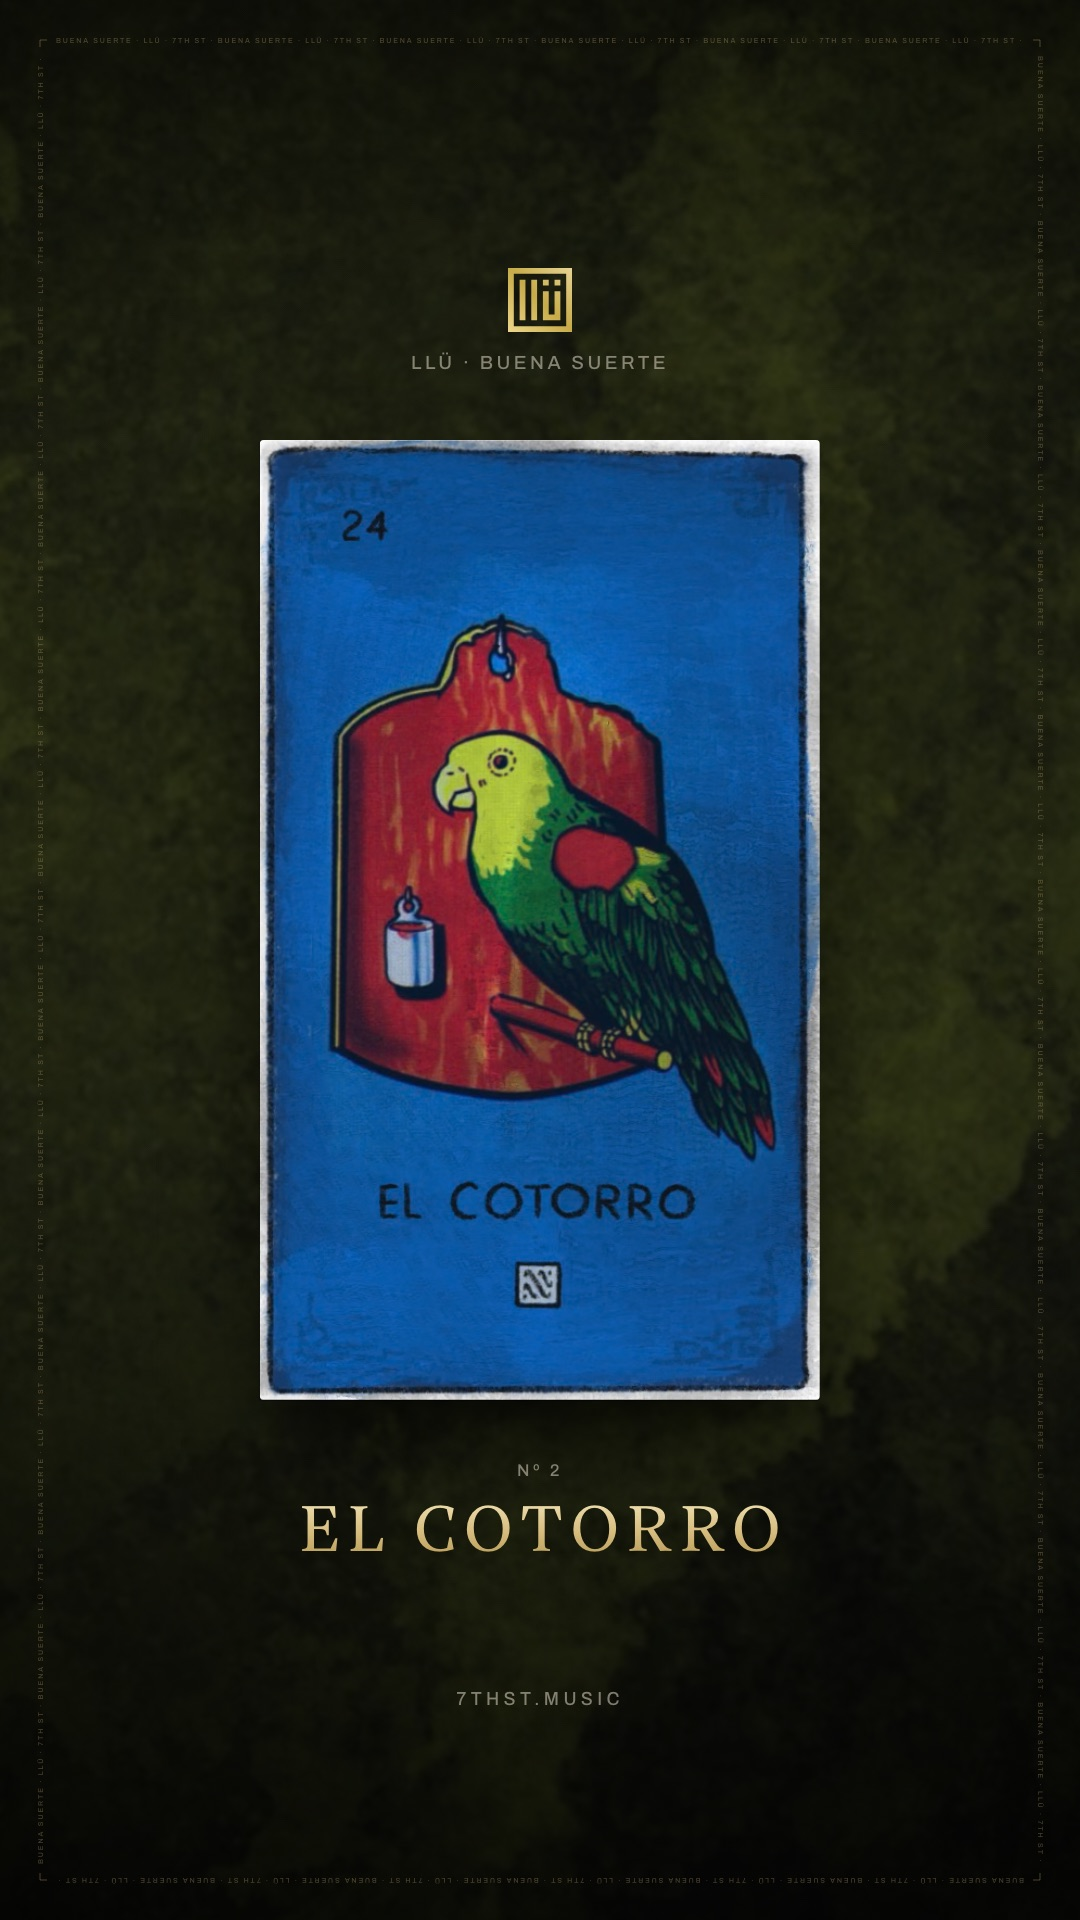
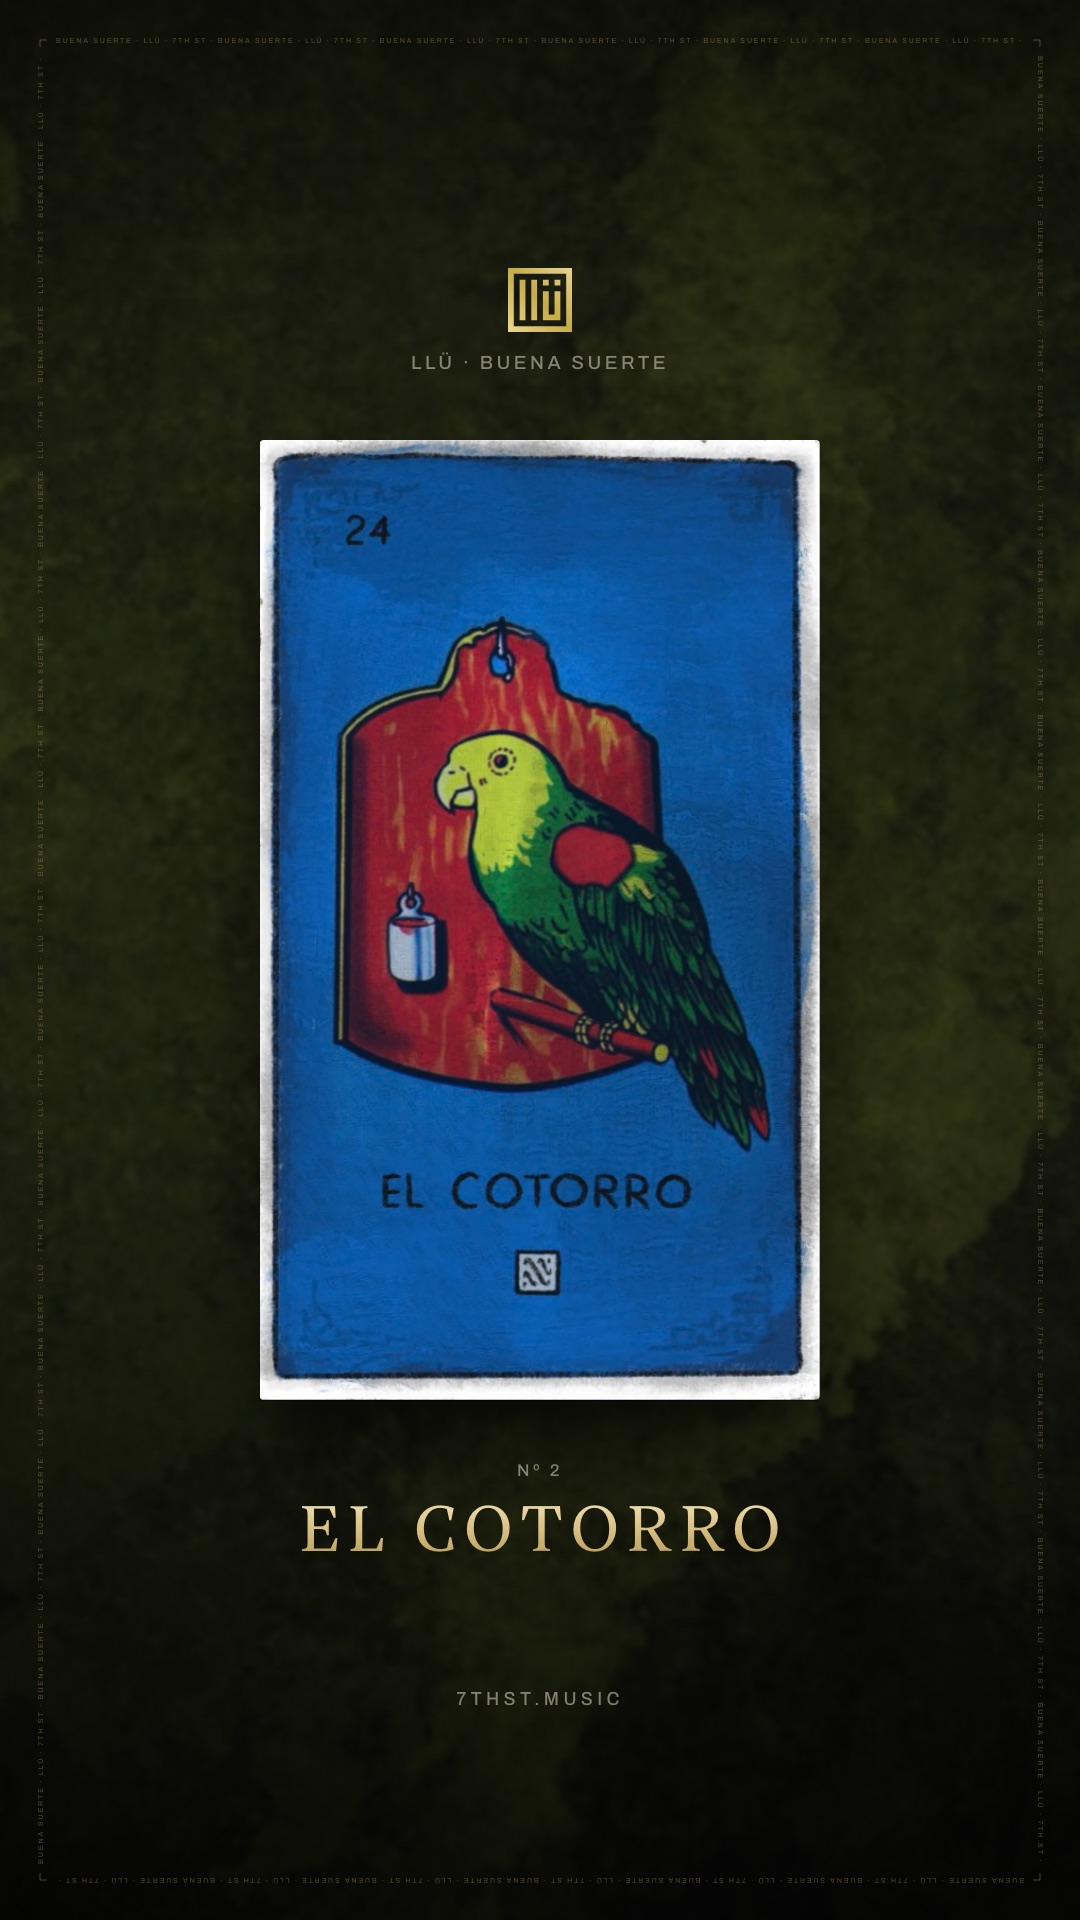
Crop the released cards out to their paper edge, so the top and bottom aren't cut
The old crop sat 13 to 18 pixels inside the card's torn paper edge at the top and
bottom. The new one runs out to where that edge is still solid all the way along,
in the same 516 by 884 shape.

diff --git a/index.html b/index.html
@@ -323,7 +323,7 @@
           <span class="label">la baraja · <span data-b="total">9</span></span>
           <span class="tracks__legend"><span><i class="glyph"></i><span data-t="fullSong">completa</span></span><span><i class="glyph glyph--preview"></i><span data-t="previewLong">probadita de 30 segundos</span></span></span>
         </div>
-        <nav class="tracks__list" id="tracks" aria-label="Cards in the deck" style="--n:9"><button class="tk" type="button" data-track="0" style="" aria-label="1, La Luna, completa, 4:04"><span class="mini-card"><img src="https://res.cloudinary.com/dhjy8pfsa/image/upload/c_crop,x_619,y_365,w_516,h_884/f_auto,q_88/La_Luna_zpuyld" alt="" width="20" height="34" decoding="async"></span><span class="tk__txt"><span class="tk__name"><b>1</b>La Luna</span><span class="tk__meta"><span class="tk__dur tnum">4:04</span><span class="eq" aria-hidden="true"><i></i><i></i><i></i></span></span></span></button><button class="tk" type="button" data-track="1" style="" aria-label="2, El Cotorro, completa, 3:09"><span class="mini-card"><img src="https://res.cloudinary.com/dhjy8pfsa/image/upload/c_crop,x_619,y_365,w_516,h_884/f_auto,q_88/El_Cotorro_az7mbb" alt="" width="20" height="34" decoding="async"></span><span class="tk__txt"><span class="tk__name"><b>2</b>El Cotorro</span><span class="tk__meta"><span class="tk__dur tnum">3:09</span><span class="eq" aria-hidden="true"><i></i><i></i><i></i></span></span></span></button><button class="tk" type="button" data-track="2" style="" aria-label="3, El Diablito, completa, 4:19"><span class="mini-card"><img src="https://res.cloudinary.com/dhjy8pfsa/image/upload/c_crop,x_619,y_365,w_516,h_884/f_auto,q_88/El_Diablito_poz9xb" alt="" width="20" height="34" decoding="async"></span><span class="tk__txt"><span class="tk__name"><b>3</b>El Diablito</span><span class="tk__meta"><span class="tk__dur tnum">4:19</span><span class="eq" aria-hidden="true"><i></i><i></i><i></i></span></span></span></button><button class="tk" type="button" data-track="3" style="--field:#dca444" aria-label="4, El Sueño, probadita de 30 segundos, sale a inicios del 2027"><span class="mini-card mini-card--sealed" style="--field:#dca444"></span><span class="tk__txt"><span class="tk__name"><b>4</b>El Sueño</span><span class="tk__meta"><span class="dot"></span>probadita<span class="eq" aria-hidden="true"><i></i><i></i><i></i></span></span></span></button><button class="tk" type="button" data-track="4" style="--field:#4a958b" aria-label="5, Los Amigos, probadita de 30 segundos, sale a inicios del 2027"><span class="mini-card mini-card--sealed" style="--field:#4a958b"></span><span class="tk__txt"><span class="tk__name"><b>5</b>Los Amigos</span><span class="tk__meta"><span class="dot"></span>probadita<span class="eq" aria-hidden="true"><i></i><i></i><i></i></span></span></span></button><button class="tk" type="button" data-track="5" style="--field:#bd5068" aria-label="6, El Corazón, probadita de 30 segundos, sale a inicios del 2027"><span class="mini-card mini-card--sealed" style="--field:#bd5068"></span><span class="tk__txt"><span class="tk__name"><b>6</b>El Corazón</span><span class="tk__meta"><span class="dot"></span>probadita<span class="eq" aria-hidden="true"><i></i><i></i><i></i></span></span></span></button><button class="tk" type="button" data-track="6" style="--field:#d2582f" aria-label="7, El Fuego, probadita de 30 segundos, sale a inicios del 2027"><span class="mini-card mini-card--sealed" style="--field:#d2582f"></span><span class="tk__txt"><span class="tk__name"><b>7</b>El Fuego</span><span class="tk__meta"><span class="dot"></span>probadita<span class="eq" aria-hidden="true"><i></i><i></i><i></i></span></span></span></button><button class="tk" type="button" data-track="7" style="--field:#7a66be" aria-label="8, El Perdido, probadita de 30 segundos, sale a inicios del 2027"><span class="mini-card mini-card--sealed" style="--field:#7a66be"></span><span class="tk__txt"><span class="tk__name"><b>8</b>El Perdido</span><span class="tk__meta"><span class="dot"></span>probadita<span class="eq" aria-hidden="true"><i></i><i></i><i></i></span></span></span></button><button class="tk" type="button" data-track="8" style="--field:#3a66b8" aria-label="9, La Dama, probadita de 30 segundos, sale a inicios del 2027"><span class="mini-card mini-card--sealed" style="--field:#3a66b8"></span><span class="tk__txt"><span class="tk__name"><b>9</b>La Dama</span><span class="tk__meta"><span class="dot"></span>probadita<span class="eq" aria-hidden="true"><i></i><i></i><i></i></span></span></span></button></nav>
+        <nav class="tracks__list" id="tracks" aria-label="Cards in the deck" style="--n:9"><button class="tk" type="button" data-track="0" style="" aria-label="1, La Luna, completa, 4:04"><span class="mini-card"><img src="https://res.cloudinary.com/dhjy8pfsa/image/upload/c_crop,x_614,y_359,w_528,h_904/f_auto,q_88/La_Luna_zpuyld" alt="" width="20" height="34" decoding="async"></span><span class="tk__txt"><span class="tk__name"><b>1</b>La Luna</span><span class="tk__meta"><span class="tk__dur tnum">4:04</span><span class="eq" aria-hidden="true"><i></i><i></i><i></i></span></span></span></button><button class="tk" type="button" data-track="1" style="" aria-label="2, El Cotorro, completa, 3:09"><span class="mini-card"><img src="https://res.cloudinary.com/dhjy8pfsa/image/upload/c_crop,x_614,y_359,w_528,h_904/f_auto,q_88/El_Cotorro_az7mbb" alt="" width="20" height="34" decoding="async"></span><span class="tk__txt"><span class="tk__name"><b>2</b>El Cotorro</span><span class="tk__meta"><span class="tk__dur tnum">3:09</span><span class="eq" aria-hidden="true"><i></i><i></i><i></i></span></span></span></button><button class="tk" type="button" data-track="2" style="" aria-label="3, El Diablito, completa, 4:19"><span class="mini-card"><img src="https://res.cloudinary.com/dhjy8pfsa/image/upload/c_crop,x_614,y_359,w_528,h_904/f_auto,q_88/El_Diablito_poz9xb" alt="" width="20" height="34" decoding="async"></span><span class="tk__txt"><span class="tk__name"><b>3</b>El Diablito</span><span class="tk__meta"><span class="tk__dur tnum">4:19</span><span class="eq" aria-hidden="true"><i></i><i></i><i></i></span></span></span></button><button class="tk" type="button" data-track="3" style="--field:#dca444" aria-label="4, El Sueño, probadita de 30 segundos, sale a inicios del 2027"><span class="mini-card mini-card--sealed" style="--field:#dca444"></span><span class="tk__txt"><span class="tk__name"><b>4</b>El Sueño</span><span class="tk__meta"><span class="dot"></span>probadita<span class="eq" aria-hidden="true"><i></i><i></i><i></i></span></span></span></button><button class="tk" type="button" data-track="4" style="--field:#4a958b" aria-label="5, Los Amigos, probadita de 30 segundos, sale a inicios del 2027"><span class="mini-card mini-card--sealed" style="--field:#4a958b"></span><span class="tk__txt"><span class="tk__name"><b>5</b>Los Amigos</span><span class="tk__meta"><span class="dot"></span>probadita<span class="eq" aria-hidden="true"><i></i><i></i><i></i></span></span></span></button><button class="tk" type="button" data-track="5" style="--field:#bd5068" aria-label="6, El Corazón, probadita de 30 segundos, sale a inicios del 2027"><span class="mini-card mini-card--sealed" style="--field:#bd5068"></span><span class="tk__txt"><span class="tk__name"><b>6</b>El Corazón</span><span class="tk__meta"><span class="dot"></span>probadita<span class="eq" aria-hidden="true"><i></i><i></i><i></i></span></span></span></button><button class="tk" type="button" data-track="6" style="--field:#d2582f" aria-label="7, El Fuego, probadita de 30 segundos, sale a inicios del 2027"><span class="mini-card mini-card--sealed" style="--field:#d2582f"></span><span class="tk__txt"><span class="tk__name"><b>7</b>El Fuego</span><span class="tk__meta"><span class="dot"></span>probadita<span class="eq" aria-hidden="true"><i></i><i></i><i></i></span></span></span></button><button class="tk" type="button" data-track="7" style="--field:#7a66be" aria-label="8, El Perdido, probadita de 30 segundos, sale a inicios del 2027"><span class="mini-card mini-card--sealed" style="--field:#7a66be"></span><span class="tk__txt"><span class="tk__name"><b>8</b>El Perdido</span><span class="tk__meta"><span class="dot"></span>probadita<span class="eq" aria-hidden="true"><i></i><i></i><i></i></span></span></span></button><button class="tk" type="button" data-track="8" style="--field:#3a66b8" aria-label="9, La Dama, probadita de 30 segundos, sale a inicios del 2027"><span class="mini-card mini-card--sealed" style="--field:#3a66b8"></span><span class="tk__txt"><span class="tk__name"><b>9</b>La Dama</span><span class="tk__meta"><span class="dot"></span>probadita<span class="eq" aria-hidden="true"><i></i><i></i><i></i></span></span></span></button></nav>
       </div>
     </div>
 

diff --git a/data/tracks.js b/data/tracks.js
@@ -4,7 +4,9 @@
 
 const CLOUD = 'https://res.cloudinary.com/dhjy8pfsa';
 const audio = (id) => `${CLOUD}/video/upload/buena-suerte/${id}.mp3`;
-const card = (pid) => `${CLOUD}/image/upload/c_crop,x_619,y_365,w_516,h_884/f_auto,q_88/${pid}`;
+// the card out of its scan, out to where its torn paper edge is still solid all the way along
+// (the scans share one layout); its shape is the deck's, 516 by 884
+const card = (pid) => `${CLOUD}/image/upload/c_crop,x_614,y_359,w_528,h_904/f_auto,q_88/${pid}`;
 
 // a card's painted ground, turned on its side to fill the room
 export const groundUrl = (pid, w) => `${CLOUD}/image/upload/c_crop,x_20,y_30,w_520,h_1654/a_90/c_fill,w_${w},h_${Math.round(w * 0.625)},g_center/f_auto,q_76/${pid}`;
